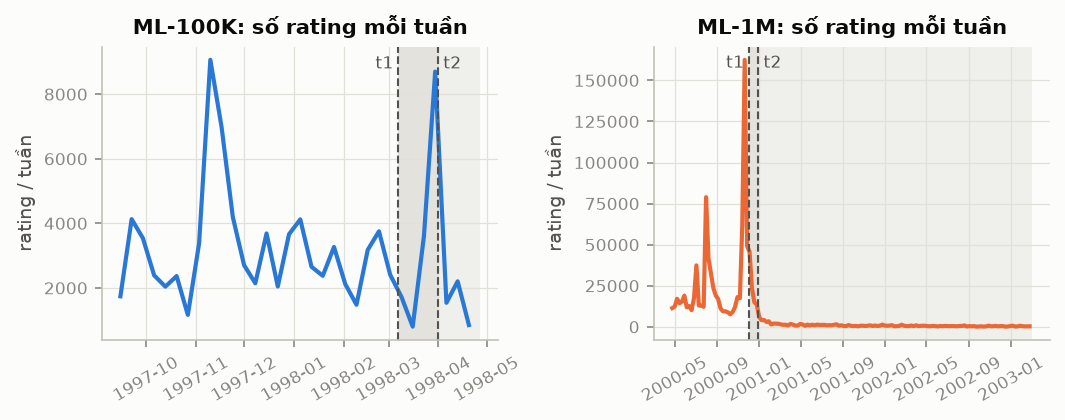
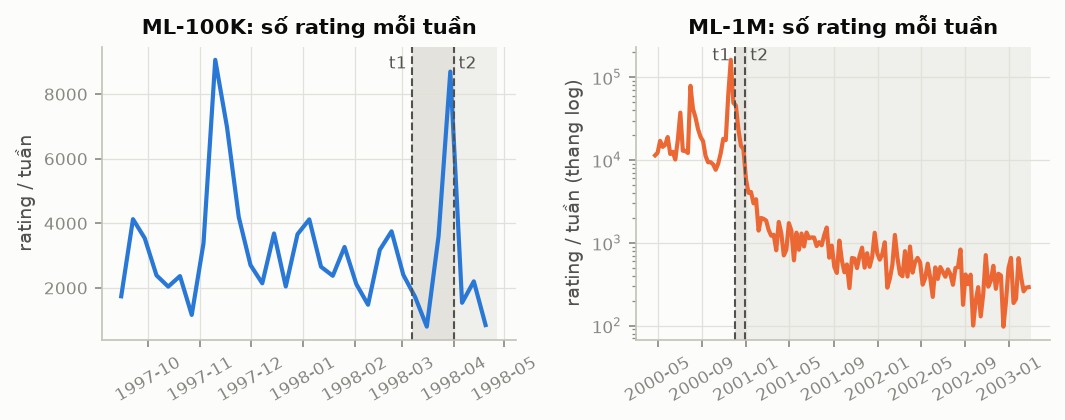
docs(report): UTC dates, item counting bases, window rounding, log scale in figure 1
- data/README.md: ML-100K starts 1997-09-20 03:05 UTC (the 1997-09-19 was a
  US local date); both date ranges are marked UTC. ML-1M was already correct
  in UTC (2000-04-25 to 2003-02-28).
- scripts/07_report_numbers.py: three new conventions (all dates in UTC; window
  lengths in days are seconds / 86400 rounded to the nearest integer, val =
  [t1, t2), test = from t2 to the last rating; the three bases for counting
  items). Item numbers now say what they count: rated items (1,682 / 3,706),
  catalogue after cleaning (1,663 / 3,883), train after 5-core. Adds the share of
  ratings >= 4. Figure 1 uses a log axis for ML-1M so the spike around t1 does
  not flatten the rest.
- Regenerated docs/data-report-numbers.md (290 numbers) and figure 1.

Changed region(s): [[0.4958, 0.031, 0.9915, 0.9595], [0.093, 0.031, 0.4648, 0.8048], [0.093, 0.8048, 0.4958, 0.9595]]

diff --git a/scripts/07_report_numbers.py b/scripts/07_report_numbers.py
@@ -140,6 +140,21 @@ def add_conventions(n: Numbers) -> None:
     n.add(S_CONV, "conv.positive_rating", f"rating ≥ {POSITIVE_RATING}", src)
     n.add(S_CONV, "conv.seeds", f"5 seed ({SEEDS})", src)
     n.add(S_CONV, "conv.k", " và ".join(str(k) for k in KS), src)
+    n.add(S_CONV, "conv.timezone", "Mọi ngày và mọi mốc thời gian tính theo UTC", src)
+    n.add(
+        S_CONV,
+        "conv.window_rounding",
+        f"Độ dài cửa sổ tính bằng ngày = chênh lệch thời gian (giây) chia {DAY}, làm tròn đến số nguyên gần nhất; "
+        "val = [t1, t2), test = từ t2 đến rating cuối cùng của dữ liệu gốc",
+        src,
+    )
+    n.add(
+        S_CONV,
+        "conv.item_bases",
+        "có ba cơ sở đếm item: item được rating (dữ liệu gốc); item trong danh mục liên kết (sau làm sạch); "
+        "item trong train (sau 5-core)",
+        src,
+    )
 
 
 def add_checksums(n: Numbers) -> None:
@@ -162,10 +177,16 @@ def add_checksums(n: Numbers) -> None:
 def add_overview_and_cleaning(n: Numbers, key: str, d: dict) -> None:
     ov, meta = eda.overview(d["inter"]), d["meta"]
     src = f"data/raw/{d['cfg']['name']} qua eda.overview"
-    n.add(S1, f"{key}.users", vn_int(ov["users"]), src)
-    n.add(S1, f"{key}.items", vn_int(ov["items"]), src)
+    n.add(S1, f"{key}.users", vn_int(ov["users"]), src + " (cơ sở: user có ít nhất một rating)")
+    n.add(S1, f"{key}.rated_items", vn_int(ov["items"]), src + " (cơ sở: item có ít nhất một rating)")
     n.add(S1, f"{key}.ratings", vn_int(ov["ratings"]), src)
-    n.add(S1, f"{key}.density", vn_pct(ov["density"]), src)
+    n.add(S1, f"{key}.density", vn_pct(ov["density"]), src + " (rating / (user × item được rating))")
+    n.add(
+        S1,
+        f"{key}.positive_rating_share",
+        vn_pct(float((d["inter"]["rating"] >= POSITIVE_RATING).mean())),
+        src + f" (rating ≥ {POSITIVE_RATING} trên mọi rating gốc)",
+    )
     n.add(S1, f"{key}.first_date", vn_date(ov["first"]), src)
     n.add(S1, f"{key}.last_date", vn_date(ov["last"]), src)
     n.add(S1, f"{key}.span_days", vn_int(ov["span_days"]), src)
@@ -229,13 +250,18 @@ def add_split(n: Numbers, key: str, d: dict) -> None:
     n.add(S4, f"{key}.kcore", f"{cfg['kcore']}-core, tính trên train", src)
     n.add(S4, f"{key}.t1", vn_date(pd.to_datetime(m["t1"], unit="s").date()), src)
     n.add(S4, f"{key}.t2", vn_date(pd.to_datetime(m["t2"], unit="s").date()), src)
-    n.add(S4, f"{key}.val_window_days", vn_dec((m["t2"] - m["t1"]) / DAY, 0), src)
+    n.add(S4, f"{key}.val_window_days", vn_dec((m["t2"] - m["t1"]) / DAY, 0), src + " (làm tròn đến ngày)")
     last = int(d["inter"]["ts"].max())
-    n.add(S4, f"{key}.test_window_days", vn_dec((last - m["t2"]) / DAY, 0), src + " và ngày cuối của data/raw")
+    n.add(
+        S4,
+        f"{key}.test_window_days",
+        vn_dec((last - m["t2"]) / DAY, 0),
+        src + " và ngày cuối của data/raw (làm tròn đến ngày)",
+    )
     n.add(S4, f"{key}.train_positives_before_kcore", vn_int(m["train_pos_before_kcore"]), src)
     n.add(S4, f"{key}.train_positives", vn_int(m["train_pos"]), src)
-    n.add(S4, f"{key}.train_users", vn_int(m["n_users"]), src)
-    n.add(S4, f"{key}.train_items", vn_int(m["n_items"]), src)
+    n.add(S4, f"{key}.train_users", vn_int(m["n_users"]), src + " (cơ sở: user trong train sau 5-core)")
+    n.add(S4, f"{key}.train_items", vn_int(m["n_items"]), src + " (cơ sở: item trong train sau 5-core)")
     for part in ("val", "test"):
         n.add(S4, f"{key}.{part}_positives_before_filter", vn_int(m[f"{part}_pos_before_filter"]), src)
         n.add(S4, f"{key}.{part}_dropped_cold_user", vn_int(m[f"{part}_dropped_cold_user_interactions"]), src)
@@ -258,8 +284,15 @@ def add_linking(n: Numbers) -> None:
     rep = json.loads(path.read_text(encoding="utf-8"))
     for key in DATASETS:
         r = rep[key]
-        n.add(S5, f"{key}.link_items", vn_int(r["items"]), src)
-        n.add(S5, f"{key}.link_freebase_items", vn_int(r["freebase_items"]), src)
+        n.add(
+            S5,
+            f"{key}.link_catalog_items",
+            vn_int(r["items"]),
+            src + " (cơ sở: danh mục phim sau làm sạch, kể cả item chưa có rating)",
+        )
+        n.add(
+            S5, f"{key}.link_freebase_items", vn_int(r["freebase_items"]), src + " (cơ sở: danh mục phim sau làm sạch)"
+        )
         n.add(S5, f"{key}.link_freebase_item_share", vn_pct(r["freebase_item_share"]), src)
         n.add(S5, f"{key}.link_freebase_rating_share", vn_pct(r["freebase_rating_share"]), src)
         n.add(S5, f"{key}.link_yago_item_share", vn_pct(r["yago_item_share"]), src)
@@ -288,9 +321,11 @@ def add_linking(n: Numbers) -> None:
 def add_kg(n: Numbers, key: str, d: dict, facts: pd.DataFrame, ctx: dict) -> None:
     meta = d["metas"]["default"]
     src = f"{rel(ROOT / d['cfg']['processed_dir'])}/kg/*/kg_meta.json"
-    n.add(S6, f"{key}.kg_items", vn_int(meta["n_items"]), src)
-    n.add(S6, f"{key}.kg_items_linked", vn_int(meta["n_items_linked"]), src)
-    n.add(S6, f"{key}.kg_items_with_facts", vn_int(meta["n_items_with_facts"]["t1"]), src)
+    n.add(S6, f"{key}.kg_items", vn_int(meta["n_items"]), src + " (cơ sở: item trong train sau 5-core)")
+    n.add(S6, f"{key}.kg_items_linked", vn_int(meta["n_items_linked"]), src + " (cơ sở: item trong train)")
+    n.add(
+        S6, f"{key}.kg_items_with_facts", vn_int(meta["n_items_with_facts"]["t1"]), src + " (cơ sở: item trong train)"
+    )
     kinds = kg.relation_date_kinds(meta)
     total = kinds["facts"].sum()
     stmt = kinds["facts"] * kinds["statement_dated"]
@@ -499,12 +534,14 @@ def draw_figures(out: Path, data: dict[str, dict], ctx: dict) -> list[Path]:
         ax.axvspan(t1, t2, color=GRID, alpha=0.9, lw=0)
         ax.axvspan(t2, w.index.max() + pd.Timedelta(days=7), color=GRID, alpha=0.45, lw=0)
         ax.plot(w.index, w.values, color=COLOR[key])
+        if key == "ml1m":
+            ax.set_yscale("log")  # one spike around t1 would flatten the rest on a linear axis
         top = ax.get_ylim()[1]
         for t, lab, ha in ((t1, "t1 ", "right"), (t2, " t2", "left")):
             ax.axvline(t, color=INK2, lw=1, ls="--")
             ax.text(t, top * 0.97, lab, color=INK2, ha=ha, va="top", fontsize=8)
         ax.set_title(f"{LABEL[key]}: số rating mỗi tuần")
-        ax.set_ylabel("rating / tuần")
+        ax.set_ylabel("rating / tuần" + (" (thang log)" if key == "ml1m" else ""))
         ax.tick_params(axis="x", rotation=30)
     fig.tight_layout()
     paths.append(out / "fig1_rating_theo_tuan.png")

diff --git a/docs/data-report-numbers.md b/docs/data-report-numbers.md
@@ -17,6 +17,9 @@ Giá trị "chưa có" nghĩa là nguồn chưa tồn tại; script điền số
 | `conv.positive_rating` | rating ≥ 4 | hằng số trong scripts/07_report_numbers.py (dùng chính chúng khi tính) |
 | `conv.seeds` | 5 seed (2019–2023) | hằng số trong scripts/07_report_numbers.py (dùng chính chúng khi tính) |
 | `conv.k` | 10 và 20 | hằng số trong scripts/07_report_numbers.py (dùng chính chúng khi tính) |
+| `conv.timezone` | Mọi ngày và mọi mốc thời gian tính theo UTC | hằng số trong scripts/07_report_numbers.py (dùng chính chúng khi tính) |
+| `conv.window_rounding` | Độ dài cửa sổ tính bằng ngày = chênh lệch thời gian (giây) chia 86400, làm tròn đến số nguyên gần nhất; val = [t1, t2), test = từ t2 đến rating cuối cùng của dữ liệu gốc | hằng số trong scripts/07_report_numbers.py (dùng chính chúng khi tính) |
+| `conv.item_bases` | có ba cơ sở đếm item: item được rating (dữ liệu gốc); item trong danh mục liên kết (sau làm sạch); item trong train (sau 5-core) | hằng số trong scripts/07_report_numbers.py (dùng chính chúng khi tính) |
 
 ## 1. Bộ dữ liệu và nguồn
 
@@ -26,10 +29,11 @@ Giá trị "chưa có" nghĩa là nguồn chưa tồn tại; script điền số
 | `checksum.ok` | 9 | data/checksums.json và data/raw/ (SHA-256) |
 | `checksum.missing` | 0 | data/checksums.json và data/raw/ (SHA-256) |
 | `checksum.mismatch` | 0 | data/checksums.json và data/raw/ (SHA-256) |
-| `ml100k.users` | 943 | data/raw/ml-100k qua eda.overview |
-| `ml100k.items` | 1.682 | data/raw/ml-100k qua eda.overview |
+| `ml100k.users` | 943 | data/raw/ml-100k qua eda.overview (cơ sở: user có ít nhất một rating) |
+| `ml100k.rated_items` | 1.682 | data/raw/ml-100k qua eda.overview (cơ sở: item có ít nhất một rating) |
 | `ml100k.ratings` | 100.000 | data/raw/ml-100k qua eda.overview |
-| `ml100k.density` | 6,3% | data/raw/ml-100k qua eda.overview |
+| `ml100k.density` | 6,3% | data/raw/ml-100k qua eda.overview (rating / (user × item được rating)) |
+| `ml100k.positive_rating_share` | 55,4% | data/raw/ml-100k qua eda.overview (rating ≥ 4 trên mọi rating gốc) |
 | `ml100k.first_date` | 20/09/1997 | data/raw/ml-100k qua eda.overview |
 | `ml100k.last_date` | 22/04/1998 | data/raw/ml-100k qua eda.overview |
 | `ml100k.span_days` | 214 | data/raw/ml-100k qua eda.overview |
@@ -37,10 +41,11 @@ Giá trị "chưa có" nghĩa là nguồn chưa tồn tại; script điền số
 | `ml100k.peak_year` | 1997 | data/raw/ml-100k qua eda.overview qua eda.year_shares |
 | `ml100k.peak_year_share` | 52,9% | data/raw/ml-100k qua eda.overview qua eda.year_shares |
 | `ml100k.last_year` | 1998 | data/raw/ml-100k qua eda.overview qua eda.year_shares |
-| `ml1m.users` | 6.040 | data/raw/ml-1m qua eda.overview |
-| `ml1m.items` | 3.706 | data/raw/ml-1m qua eda.overview |
+| `ml1m.users` | 6.040 | data/raw/ml-1m qua eda.overview (cơ sở: user có ít nhất một rating) |
+| `ml1m.rated_items` | 3.706 | data/raw/ml-1m qua eda.overview (cơ sở: item có ít nhất một rating) |
 | `ml1m.ratings` | 1.000.209 | data/raw/ml-1m qua eda.overview |
-| `ml1m.density` | 4,5% | data/raw/ml-1m qua eda.overview |
+| `ml1m.density` | 4,5% | data/raw/ml-1m qua eda.overview (rating / (user × item được rating)) |
+| `ml1m.positive_rating_share` | 57,5% | data/raw/ml-1m qua eda.overview (rating ≥ 4 trên mọi rating gốc) |
 | `ml1m.first_date` | 25/04/2000 | data/raw/ml-1m qua eda.overview |
 | `ml1m.last_date` | 28/02/2003 | data/raw/ml-1m qua eda.overview |
 | `ml1m.span_days` | 1.038 | data/raw/ml-1m qua eda.overview |
@@ -112,12 +117,12 @@ Giá trị "chưa có" nghĩa là nguồn chưa tồn tại; script điền số
 | `ml100k.kcore` | 5-core, tính trên train | data/processed/ml-100k/meta.json |
 | `ml100k.t1` | 07/03/1998 | data/processed/ml-100k/meta.json |
 | `ml100k.t2` | 31/03/1998 | data/processed/ml-100k/meta.json |
-| `ml100k.val_window_days` | 25 | data/processed/ml-100k/meta.json |
-| `ml100k.test_window_days` | 22 | data/processed/ml-100k/meta.json và ngày cuối của data/raw |
+| `ml100k.val_window_days` | 25 | data/processed/ml-100k/meta.json (làm tròn đến ngày) |
+| `ml100k.test_window_days` | 22 | data/processed/ml-100k/meta.json và ngày cuối của data/raw (làm tròn đến ngày) |
 | `ml100k.train_positives_before_kcore` | 43.929 | data/processed/ml-100k/meta.json |
 | `ml100k.train_positives` | 43.018 | data/processed/ml-100k/meta.json |
-| `ml100k.train_users` | 745 | data/processed/ml-100k/meta.json |
-| `ml100k.train_items` | 932 | data/processed/ml-100k/meta.json |
+| `ml100k.train_users` | 745 | data/processed/ml-100k/meta.json (cơ sở: user trong train sau 5-core) |
+| `ml100k.train_items` | 932 | data/processed/ml-100k/meta.json (cơ sở: item trong train sau 5-core) |
 | `ml100k.val_positives_before_filter` | 5.648 | data/processed/ml-100k/meta.json |
 | `ml100k.val_dropped_cold_user` | 4.886 | data/processed/ml-100k/meta.json |
 | `ml100k.val_dropped_cold_item` | 50 | data/processed/ml-100k/meta.json |
@@ -137,12 +142,12 @@ Giá trị "chưa có" nghĩa là nguồn chưa tồn tại; script điền số
 | `ml1m.kcore` | 5-core, tính trên train | data/processed/ml-1m/meta.json |
 | `ml1m.t1` | 02/12/2000 | data/processed/ml-1m/meta.json |
 | `ml1m.t2` | 29/12/2000 | data/processed/ml-1m/meta.json |
-| `ml1m.val_window_days` | 27 | data/processed/ml-1m/meta.json |
-| `ml1m.test_window_days` | 791 | data/processed/ml-1m/meta.json và ngày cuối của data/raw |
+| `ml1m.val_window_days` | 27 | data/processed/ml-1m/meta.json (làm tròn đến ngày) |
+| `ml1m.test_window_days` | 791 | data/processed/ml-1m/meta.json và ngày cuối của data/raw (làm tròn đến ngày) |
 | `ml1m.train_positives_before_kcore` | 463.017 | data/processed/ml-1m/meta.json |
 | `ml1m.train_positives` | 461.858 | data/processed/ml-1m/meta.json |
-| `ml1m.train_users` | 5.350 | data/processed/ml-1m/meta.json |
-| `ml1m.train_items` | 3.009 | data/processed/ml-1m/meta.json |
+| `ml1m.train_users` | 5.350 | data/processed/ml-1m/meta.json (cơ sở: user trong train sau 5-core) |
+| `ml1m.train_items` | 3.009 | data/processed/ml-1m/meta.json (cơ sở: item trong train sau 5-core) |
 | `ml1m.val_positives_before_filter` | 57.812 | data/processed/ml-1m/meta.json |
 | `ml1m.val_dropped_cold_user` | 45.605 | data/processed/ml-1m/meta.json |
 | `ml1m.val_dropped_cold_item` | 74 | data/processed/ml-1m/meta.json |
@@ -163,13 +168,13 @@ Giá trị "chưa có" nghĩa là nguồn chưa tồn tại; script điền số
 
 | Khóa | Giá trị | Nguồn |
 |---|---|---|
-| `ml100k.link_items` | 1.663 | data/processed/links/linking_report.json |
-| `ml100k.link_freebase_items` | 1.617 | data/processed/links/linking_report.json |
+| `ml100k.link_catalog_items` | 1.663 | data/processed/links/linking_report.json (cơ sở: danh mục phim sau làm sạch, kể cả item chưa có rating) |
+| `ml100k.link_freebase_items` | 1.617 | data/processed/links/linking_report.json (cơ sở: danh mục phim sau làm sạch) |
 | `ml100k.link_freebase_item_share` | 97,2% | data/processed/links/linking_report.json |
 | `ml100k.link_freebase_rating_share` | 99,5% | data/processed/links/linking_report.json |
 | `ml100k.link_yago_item_share` | 83,1% | data/processed/links/linking_report.json |
-| `ml1m.link_items` | 3.883 | data/processed/links/linking_report.json |
-| `ml1m.link_freebase_items` | 3.811 | data/processed/links/linking_report.json |
+| `ml1m.link_catalog_items` | 3.883 | data/processed/links/linking_report.json (cơ sở: danh mục phim sau làm sạch, kể cả item chưa có rating) |
+| `ml1m.link_freebase_items` | 3.811 | data/processed/links/linking_report.json (cơ sở: danh mục phim sau làm sạch) |
 | `ml1m.link_freebase_item_share` | 98,2% | data/processed/links/linking_report.json |
 | `ml1m.link_freebase_rating_share` | 99,7% | data/processed/links/linking_report.json |
 | `ml1m.link_yago_item_share` | 84,1% | data/processed/links/linking_report.json |
@@ -207,9 +212,9 @@ Giá trị "chưa có" nghĩa là nguồn chưa tồn tại; script điền số
 | `toystory.facts_lost_t1` | 2 | kg.film_fact_status (facts.tsv, dropped.csv của ML-100K) |
 | `toystory.sequel` | Toy Story 2 | kg.film_fact_status (facts.tsv, dropped.csv của ML-100K) |
 | `toystory.sequel_date` | 24/11/1999 | kg.film_fact_status (facts.tsv, dropped.csv của ML-100K) |
-| `ml100k.kg_items` | 932 | data/processed/ml-100k/kg/*/kg_meta.json |
-| `ml100k.kg_items_linked` | 927 | data/processed/ml-100k/kg/*/kg_meta.json |
-| `ml100k.kg_items_with_facts` | 927 | data/processed/ml-100k/kg/*/kg_meta.json |
+| `ml100k.kg_items` | 932 | data/processed/ml-100k/kg/*/kg_meta.json (cơ sở: item trong train sau 5-core) |
+| `ml100k.kg_items_linked` | 927 | data/processed/ml-100k/kg/*/kg_meta.json (cơ sở: item trong train) |
+| `ml100k.kg_items_with_facts` | 927 | data/processed/ml-100k/kg/*/kg_meta.json (cơ sở: item trong train) |
 | `ml100k.kg_facts` | 37.103 | data/processed/ml-100k/kg/*/kg_meta.json qua kg.relation_date_kinds |
 | `ml100k.statement_dated_share` | 7,6% | data/processed/ml-100k/kg/*/kg_meta.json qua kg.relation_date_kinds |
 | `ml100k.award_share_of_statement_dated` | 97,1% | data/processed/ml-100k/kg/*/kg_meta.json qua kg.relation_date_kinds |
@@ -241,9 +246,9 @@ Giá trị "chưa có" nghĩa là nguồn chưa tồn tại; script điền số
 | `ml100k.affected_item_share` | 36,9% | kg.items_with_filtered_facts (static so với default cùng mốc), kg.positive_share |
 | `ml100k.affected_val_positive_share` | 53,1% | kg.items_with_filtered_facts (static so với default cùng mốc), kg.positive_share |
 | `ml100k.affected_test_positive_share` | 48,1% | kg.items_with_filtered_facts (static so với default cùng mốc), kg.positive_share |
-| `ml1m.kg_items` | 3.009 | data/processed/ml-1m/kg/*/kg_meta.json |
-| `ml1m.kg_items_linked` | 2.988 | data/processed/ml-1m/kg/*/kg_meta.json |
-| `ml1m.kg_items_with_facts` | 2.975 | data/processed/ml-1m/kg/*/kg_meta.json |
+| `ml1m.kg_items` | 3.009 | data/processed/ml-1m/kg/*/kg_meta.json (cơ sở: item trong train sau 5-core) |
+| `ml1m.kg_items_linked` | 2.988 | data/processed/ml-1m/kg/*/kg_meta.json (cơ sở: item trong train) |
+| `ml1m.kg_items_with_facts` | 2.975 | data/processed/ml-1m/kg/*/kg_meta.json (cơ sở: item trong train) |
 | `ml1m.kg_facts` | 104.782 | data/processed/ml-1m/kg/*/kg_meta.json qua kg.relation_date_kinds |
 | `ml1m.statement_dated_share` | 5,8% | data/processed/ml-1m/kg/*/kg_meta.json qua kg.relation_date_kinds |
 | `ml1m.award_share_of_statement_dated` | 97,8% | data/processed/ml-1m/kg/*/kg_meta.json qua kg.relation_date_kinds |

diff --git a/data/README.md b/data/README.md
@@ -5,8 +5,8 @@ allow redistribution.
 
 | Path under `data/raw/` | Source | Notes |
 |---|---|---|
-| `ml-100k.zip`, `ml-100k/` | <https://files.grouplens.org/datasets/movielens/ml-100k.zip> | MD5 `0e33842e24a9c977be4e0107933c0723`. 100,000 ratings, 943 users, 1,682 movies, 1997-09-19 → 1998-04-22. **Do not use the bundled `u1`–`u5`, `ua`, `ub` splits: they are random.** |
-| `ml-1m/` | <https://files.grouplens.org/datasets/movielens/ml-1m.zip> | 1,000,209 ratings, 6,040 users, 3,883 movies, 2000-04-25 → 2003-02-28. Same movie id space as MovieLens-20M. |
+| `ml-100k.zip`, `ml-100k/` | <https://files.grouplens.org/datasets/movielens/ml-100k.zip> | MD5 `0e33842e24a9c977be4e0107933c0723`. 100,000 ratings, 943 users, 1,682 movies, 1997-09-20 → 1998-04-22 (UTC). **Do not use the bundled `u1`–`u5`, `ua`, `ub` splits: they are random.** |
+| `ml-1m/` | <https://files.grouplens.org/datasets/movielens/ml-1m.zip> | 1,000,209 ratings, 6,040 users, 3,883 movies, 2000-04-25 → 2003-02-28 (UTC). Same movie id space as MovieLens-20M. |
 | `kb4rec/ml2fb.txt`, `kb4rec/ml2yago.txt` | <https://github.com/RUCDM/KB4Rec/tree/master/Linkage> | MovieLens-20M id → Freebase mid / YAGO entity. Commit recorded in `kb4rec/SOURCE_COMMIT.txt`. Cite Zhao et al., *Data Intelligence* 2019. |
[1 lines of base64/hex data omitted]
 
